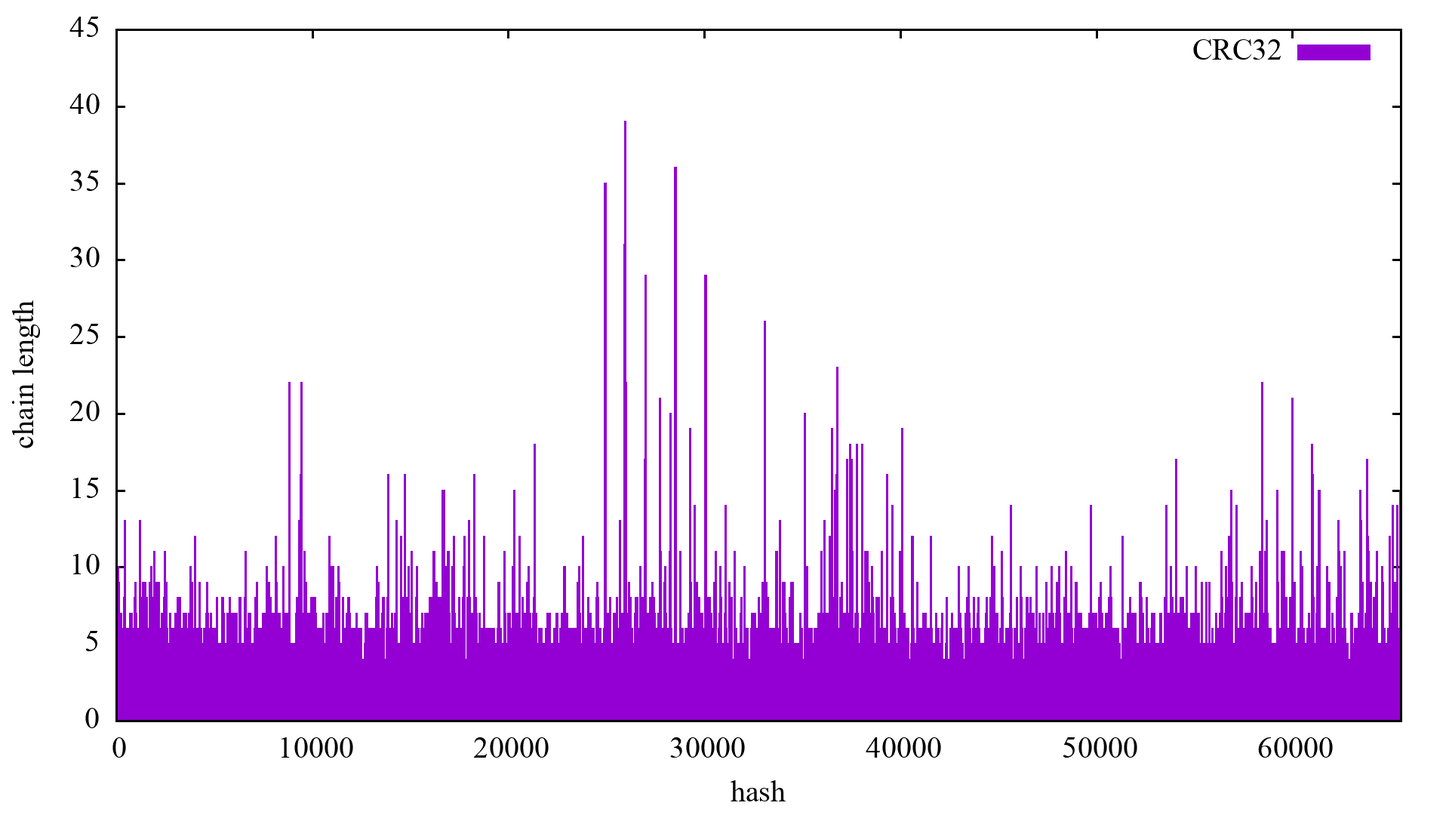
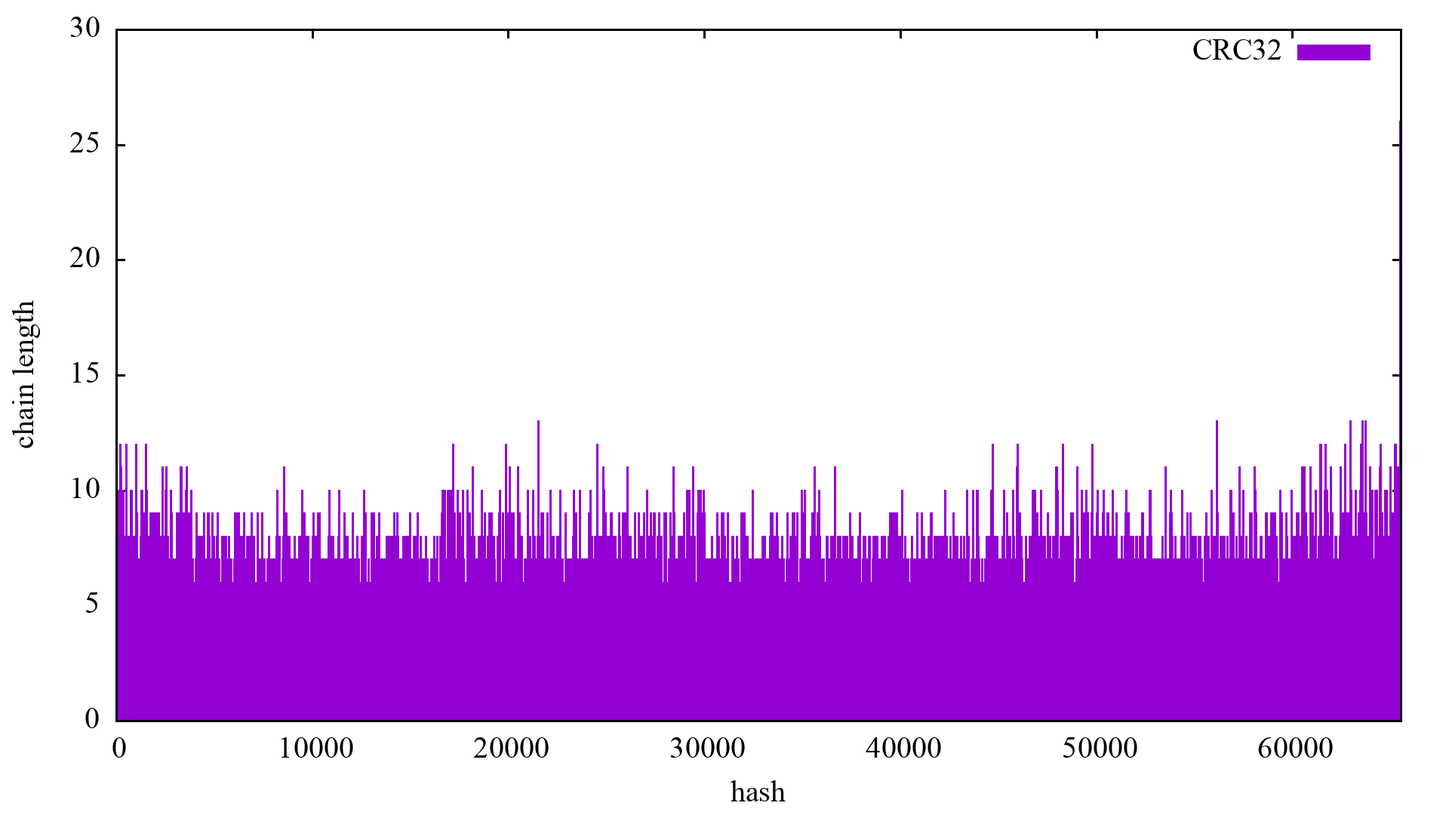
upd readme

diff --git a/hash_functions_testing/source/tester.c b/hash_functions_testing/source/tester.c
@@ -38,8 +38,8 @@ int main(int argc, char **argv)
     }
 
     size_t table_sz = 0;
-    if(strcmp(argv[2], "small") == 0)    table_sz = 1 << 9  - 3; //primes near 2^k
-    else if(strcmp(argv[2], "big") == 0) table_sz = 1 << 16 + 1; //primes near 2^k
+    if(strcmp(argv[2], "small") == 0)    table_sz = (1 << 9 ) - 3; //primes near 2^k
+    else if(strcmp(argv[2], "big") == 0) table_sz = (1 << 16) + 1; //primes near 2^k
     else abort();
 
     struct HashTable *table = HashTableCtr(Func, table_sz);

diff --git a/hash_functions_testing/source/hash_functions.c b/hash_functions_testing/source/hash_functions.c
@@ -49,7 +49,7 @@ size_t HashFuncRotL(char *key, size_t mod)
 
 size_t HashFuncRotR(char *key, size_t mod)
 {
-    uint32_t hash = 0;
+    uint64_t hash = 0;
     while(*key != '\0')
     {
         hash = ROR64(hash, 1);

diff --git a/README.md b/README.md
@@ -4,7 +4,7 @@
 
 В данном проекте была реализована хеш-таблица методом цепочек в целях тестирования различных хеш-функций и изучения ассемблерных оптимизаций.
 
-Хеш-таблица была основана на том, что коллизии были разрешены путём объединения элементов с одим значением хеша в список. Чтобы вставить новый элемент в таблицу, нужно посчитать его хеш и затем пройтись по цепочке, попутно сравнивая все элементы списка с нашим, что может быть долго, поэтому нашей целью является получить хеш-функцию, дающую наименьшее число коллизий, то есть наиболее равномерное распределение, для анализа которого просчитывалась дисперсия случайной величины $L$ - длины цепочки $D[L] = \sum\frac{(L_{i} - L_{avg})^2}{N}$, где $L_{i}$ - длина цепи соответствующая $i$ позиции в таблице, $L_{avg}$ - получившееся среднее значение длины цепи, $N$ - размер таблицы, который был равен $2^{16} + 1$.
+Хеш-таблица была основана на том, что коллизии были разрешены путём объединения элементов с одим значением хеша в односвязный список. Чтобы вставить новый элемент в таблицу, нужно посчитать его хеш и затем пройтись по цепочке, попутно сравнивая все элементы списка с нашим, что знаимает O(k) времени, где k - длина цепочки, поэтому нашей целью является получить хеш-функцию, дающую наименьшее число коллизий, то есть наиболее равномерное распределение, для анализа которого просчитывалась дисперсия случайной величины $L$ - длины цепочки $D[L] = \sum\frac{(L_{i} - L_{avg})^2}{N}$, где $L_{i}$ - длина цепи соответствующая $i$ позиции в таблице, $L_{avg}$ - получившееся среднее значение длины цепи, $N$ - размер таблицы, который был равен $2^{16} + 1$.
 
 Для тестирования были выбраны следующие хеш-функции:
 
@@ -16,7 +16,7 @@
 - RotRHash     - подсчёт хеша за счёт битового поворота вправо
 - CRC32Hash    - подсчёт циклического избыточного кода
 
-Хеш-функции тестировались на наборе [hash_functions_test](hash_functions_testing/data/hash_functions_test.txt), затем строились графики зависимости длины цепочки от её номера в таблице и проводился анализ. Для анализа размер таблицы брался примерно в 3 раза меньше размера данных. Далее была выбрана лучшая из полученных хеш-функций и хеш-таблица была оптимизирована на уровне ассемблера.
+Хеш-функции тестировались на наборе [hash_functions_test](hash_functions_testing/data/hash_functions_test.txt), затем строились графики зависимости длины цепочки от её номера в таблице и проводился анализ. Для анализа размер таблицы брался примерно в 3 раза меньше размера данных. Далее была выбрана лучшая из полученных хеш-функций и хеш-таблица была оптимизирована на уровне ассемблера. Эти тесты запускались на данных из [hash_table_test8-31.txt](/hash_table_optimizations/data/hash_table_test8-31.txt).
 
 ## Instalation And Testing
 
@@ -55,7 +55,7 @@ size_t HashFuncConst(char *key, size_t mod)
 |:----------------------------------:|:-----------------------------------:|
 |![img](/readme_assets/ConstHash.png)|![img](/readme_assets/1ConstHash.png)|
 
-и полученная дисперсия $D = $.
+и полученная дисперсия $D = 610332.9$.
 
 ### CharHash
 
@@ -73,7 +73,25 @@ size_t HashFuncChar(char *key, size_t mod)
 |:---------------------------------:|:----------------------------------:|
 |![img](/readme_assets/CharHash.png)|![img](/readme_assets/1CharHash.png)|
 
-что также подтверждается значением дисперсии, равным $D = $.
+что также подтверждается значением дисперсии, равным $D = 52581.1$.
+
+### StrLenHash
+
+Данная хеш-функция возвращает длину строки.
+
+```C
+size_t HashFuncStrLen(char *key, size_t mod)
+{
+    return strlen(key) % mod;
+}
+```
+
+Как и со многими хеш-функциями до этого, очевидно значение ключей будет сильно ограничено, а так же вероятность коллизии очень высока, подтверждение можно увидеть на графике:
+|                                     |                                      |
+|:-----------------------------------:|:------------------------------------:|
+|![img](/readme_assets/StrLenHash.png)|![img](/readme_assets/1StrLenHash.png)|
+
+Десперсия составила $D = 59633.8$.
 
 ### CheckSumHash
 
@@ -105,27 +123,9 @@ size_t HashFuncCheckSum(char *key, size_t mod)
 
 ![img](/readme_assets/1CheckSumHash(small).png)
 
-Уже получше, но в реальности лучше применять другие хеши, так как данная функция работает приемлимо только на маленьких таблицах, что замедлит работу при большом количестве данных, а так же она коммутативна.
+Уже получше, но в реальности лучше применять другие хеши, так как данная функция работает приемлимо только на маленьких таблицах, что замедлит работу при большом количестве данных.
 
-Полученные дисперсии составили соответственно:
-
-### StrLenHash
-
-Данная хеш-функция возвращает длину строки.
-
-```C
-size_t HashFuncStrLen(char *key, size_t mod)
-{
-    return strlen(key) % mod;
-}
-```
-
-Как и со многими хеш-функциями до этого, очевидно значение ключей будет сильно ограничено, а так же вероятность коллизии очень высока, подтверждение можно увидеть на графике:
-|                                     |                                      |
-|:-----------------------------------:|:------------------------------------:|
-|![img](/readme_assets/StrLenHash.png)|![img](/readme_assets/1StrLenHash.png)|
-
-Десперсия составила $D = $.
+Полученные дисперсии составили соответственно $709.3$, $7207.5$ и $2.9$.
 
 ### RotLHash
 
@@ -134,7 +134,7 @@ size_t HashFuncStrLen(char *key, size_t mod)
 ```C
 #define ROL64(num, shift) ((num) << shift) | ((num) >> (sizeof(uint64_t) * 8 - shift))
 
-size_t HashFuncConst(char *key, size_t mod)
+size_t HashFuncRotL(char *key, size_t mod)
 {
     size_t hash = 0;
     while(*key != '\0')
@@ -156,7 +156,7 @@ size_t HashFuncConst(char *key, size_t mod)
 
 Начало таблицы оказалось наиболее загруженным, что может быть связано со свойствами функции.
 
-Дисперсия составила $D = $.
+Дисперсия составила $D = 28.7$.
 
 ### RotRHash
 
@@ -177,17 +177,13 @@ size_t HashFuncRotR(char *key, size_t mod)
 }
 ```
 
-Вопреки ожиданиям, данная хеш-функция показала себя крайне плохо, по сравнению с RotLHash:
+Вопреки ожиданиям, данная хеш-функция показала себя не очень хорошо, по сравнению с RotLHash:
 
 ![img](/readme_assets/RotRHash.png)
 
-В приближении:
-
-![img](/readme_assets/1RotRHash.png)
-
 Это может быть связяно с тем, что при сдвиге в право при относительно коротких строках заполняются только старшие биты, поэтому взятие хеша по модулю размера таблицы работает не так как ожидалось.
 
-Дисперсия составила $D = $.
+Дисперсия составила $D = 60.3$.
 
 ### CRC32
 
@@ -227,7 +223,7 @@ size_t HashFuncCRC32(char *key, size_t mod)
 }
 ```
 
-Данная функция оказалась наиболее успешной, так как полученная дисперсия составила $D = $, так же подтверждение можно увидеть из графика:
+Данная функция оказалась наиболее успешной, так как полученная дисперсия составила $D = 3.4$, так же подтверждение можно увидеть из графика:
 
 ![img](/readme_assets/CRC32Hash.png)
 
@@ -236,16 +232,113 @@ size_t HashFuncCRC32(char *key, size_t mod)
 Таблица с результатами:
 
 | Хеш-функция | Дисперсия |
-|:-----------:|:---------:|
-|Constant     |           |
-|FirstChar    |           |
-|StrLen       |           |
-|CheckSum     |           |
-|RotR         |           |
-|RotL         |           |
-|CRC32        |           |
+|:-----------:|----------:|
+|Constant     |  610332.9 |
+|StrLen       |   59633.8 |
+|FirstChar    |   52581.1 |
+|CheckSum     |     709.3 |
+|RotR         |      60.3 |
+|RotL         |      28.7 |
+|CRC32        |       3.4 |
 
-CRC 32 показала себя лучше других, к тому же она имеет большой потенциал к оптимизации, поэтому в дальнейшем была выбрана именно она.
+CRC32 показала себя лучше других, к тому же она имеет большой потенциал к оптимизации, поэтому в дальнейшем была выбрана именно она.
 
 ## Hash-Table Optimizations
 
+Для оптимизации хеш-таблицы таблица заполнялась набором из $150 \cdot 10^3$ слов, а затем операция вставки повторялась ещё 99 раз. Это делалось ввиду того, что все хеш-функции имеют схожий цикл, итерирующий элементы списка коллизии, поэтому можно было рассматривать только одну функцию `HashTableInsert`.
+
+Запускать тесты будем по 3 раза и измерять среднее количество тактов, измеренное при помощи команды `rdtsc`, флаги компилятора при запуске: `-O1 -mavx2`.
+
+Для оптимизации нужно сначала определить, где программа может вести себя неэффективно, для этого использовалась программа `valgrind`, а точнее профилировщик `callgrind`. Для начала профилирования нужно исползуется команда `valgrind --tool=callgrind --callgrind-out-file=<out file>   --toggle-collect=HashTableInsert <test.out>`, таким образом мы получим сведения о вызовах функции `HashTableInsert` при исполнении программы `<test.out>` и сохраним их в файле `<out file>`, который можно просмотреть с помощью `kcahcegrind`.
+
+Для начала измерим скорость тестирования без оптимизаций.
+
+| $t_1$       | $t_2$       | $t_3$       | $t_{avg}$               |
+|:-----------:|:-----------:|:-----------:|:-----------------------:|
+| 86486763590 | 86398959414 | 86452134454 | $(8645 ± 3) \cdot 10^7$ |
+
+### Optimization 1
+
+При запуске профилировщика получили следующее:
+
+![img](/readme_assets/prof_no_opt.png)
+
+Как видно, ключевым недостатком является реализация хеш-функции, поэтому для начала оптимизируем её.
+
+Данная хеш-функция была выбрана не только за её хорошее распределение, а так же потому что она может быть просчитана процессором при помощи ассемблерной инструкции `crc32`. Воспользовавшись этим и переписав функцию на ассемблере в файле [crc32.asm](/hash_table_optimizations/source/crc32.asm).
+
+Таким образом получившееся время:
+
+| $t_1$       | $t_2$       | $t_3$       | $t_{avg}$               |
+|:-----------:|:-----------:|:-----------:|:-----------------------:|
+| 25568977964 | 25487860616 | 25479451576 | $(2551 ± 4) \cdot 10^7$ |
+
+### Optimization 2
+
+Снова запустим `valgrind` для поиска не эффективных мест. Получим следующие результаты:
+
+![img](/readme_assets/prof_opt1.png)
+
+Функция, обозначенная как `0x00000000004016d0` это реализованный на ассемблере CRC32, как видно теперь он занимает третью строчку рейтинга. На верхнем месте расположена сама функция вставки, которую оптимизировать не удалось, так как там происходит итерация списка коллизии в цикле, так что конкретно на ассемблере ускорить сильно не удастся, мы лишь усложним код. В конце рейтинга расположены вызовы выделения динамической памяти, которые к сожалению тоже сложно оптимизировать. поэтому нам остается только посмотреть на оптимизации функций `strcmp` и `strlen`, как будет видно дальше оптимировать `strlen` не придётся, так как она вызывается из под хеш функции, которая претерпит некоторые изменения. Значит остановимся на `strcmp`.
+
+Очевидно, что `strcmp`, являясь функцией стандартной библиотеки, уже оптимизирована до предела для произвольных строк. Но что если бы строки имели одинаковую длину? Если воспользоваться этим и установить строкам длину 32 байта, то пожертвовав памятью мы можем получить ощутимый прирост скорости, так как такой набор строк можно будет сравнивать с помощью SIMD инструкций без затрат на измерение длины, итерирования по кускам нужной длины и т. п. что занимало бы большую часть времени. Поэтому напишем свою функцию сравнения 32-байтовых строк:
+
+```C
+static inline int str_compare(const char *s1, const char *s2)
+{
+    __m256i mm_s1 = _mm256_loadu_si256((__m256i *)s1);
+    __m256i mm_s2 = _mm256_loadu_si256((__m256i *)s2);
+    return _mm256_testc_si256(mm_s1, mm_s2);
+}
+```
+
+Также из-за такого предположения можно переписать в более эффективной форме хеш-функцию:
+
+```C
+size_t CRC32(char *key, size_t mod)
+{
+    size_t crc = 0;
+    asm
+    (
+        ".intel_syntax noprefix\n\t"
+        "xor eax, eax\n\t"
+        "crc32 rax, qword ptr [%1 +  0]\n\t"
+        "crc32 rax, qword ptr [%1 +  8]\n\t"
+        "crc32 rax, qword ptr [%1 + 16]\n\t"
+        "crc32 rax, qword ptr [%1 + 24]\n\t"
+        "dec %2\n\t"
+        "and rax, %2\n\t"
+        ".att_syntax prefix\n\t"
+        : "=a"(crc)
+        : "D"(key), "S"(mod)
+    );
+
+    return crc;
+}
+```
+
+Стоит отметить, что ограничение в 32 байта не случайно. Действительно, во-первых обработка именно 32-байтовых строк будет наиболее эффективной, что видно по коду сверху. К тому же большинство рельных слов не превосходят длины в 32 символа, так что если понадобится, можно сделать дополнительную таблицу для длинных слов.
+
+Таким образом получившееся время:
+
+| $t_1$       | $t_2$       | $t_3$       | $t_{avg}$               |
+|:-----------:|:-----------:|:-----------:|:-----------------------:|
+| 18205353422 | 18197857742 | 18165972051 | $(1819 ± 2) \cdot 10^7$ |
+
+Общие результаты представлены в таблице:
+
+| Оптимизация | время                   | ускорение (абсолютное) | ускорение (относительное) |
+|:-----------:|:-----------------------:|:----------------------:|:-------------------------:|
+| no opt      | $(8645 ± 3) \cdot 10^7$ | 1.000                  | 1.000                     |
+| opt  1      | $(2551 ± 4) \cdot 10^7$ | 3.389 ± 0.006          | 3.389 ± 0.006             |
+| opt  2      | $(1819 ± 2) \cdot 10^7$ | 4.753 ± 0.007          | 1.402 ± 0.004             |
+
+Таким образом общее ускорение составило около 4.75.
+
+### Analysis
+
+Мы использовали для оптимизации ассемблерные инструкции, а как известно языки более высокого уровня разработаны как раз из-за их лучшей читаемости, то есть наши оптимизации затрудняют чтение кода. Оценим самый быстрый полученный вариант программы и изначальный при помощи коэффициента $α = 1000 \cdot \frac{T_{old}}{T_{new}} * N^{-1}$, где Ν - количество строк, написанных на ассемблере. В нашем случае α = $339.5 ± 0.5$. Таким образом можно сделать вывод, что ассемблерные оптимизации программы оказались довольно удачными.
+
+## Conclusion
+
+Таким образом, можно отметить, что выбор хеш-функции может сильно влиять на скорость работы таблицы, превращая операции, которые могли бы работать за O(1) в O(n), что даёт невероятный прирост скорости при большом размере таблицы. По поводу ассемблерных оптимизаций стоит отметить, что с ними стоит быть аккуратным, так как они могут привязать к архитектуре и усложняют код, но могут дать большой прирост скорости, так как компилятор не может предвидеть все возможные исходы и остаётся педантичным. К тому же он не сможет применить оптимизацию скорости за счёт увеличения объёма потребляемой памяти так, как это было сделано в данной работе.
